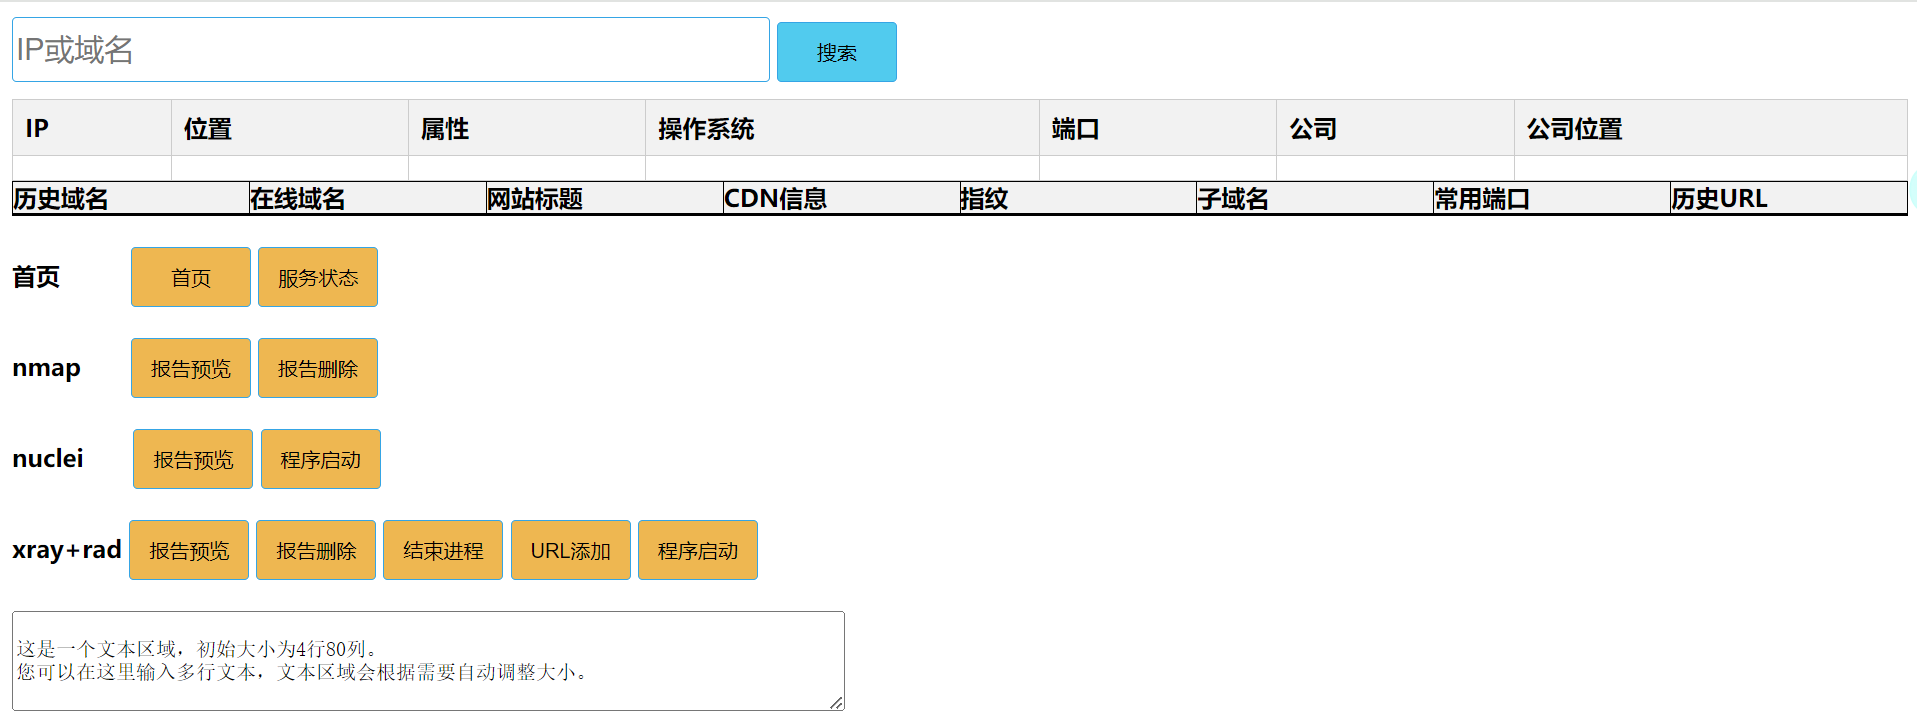
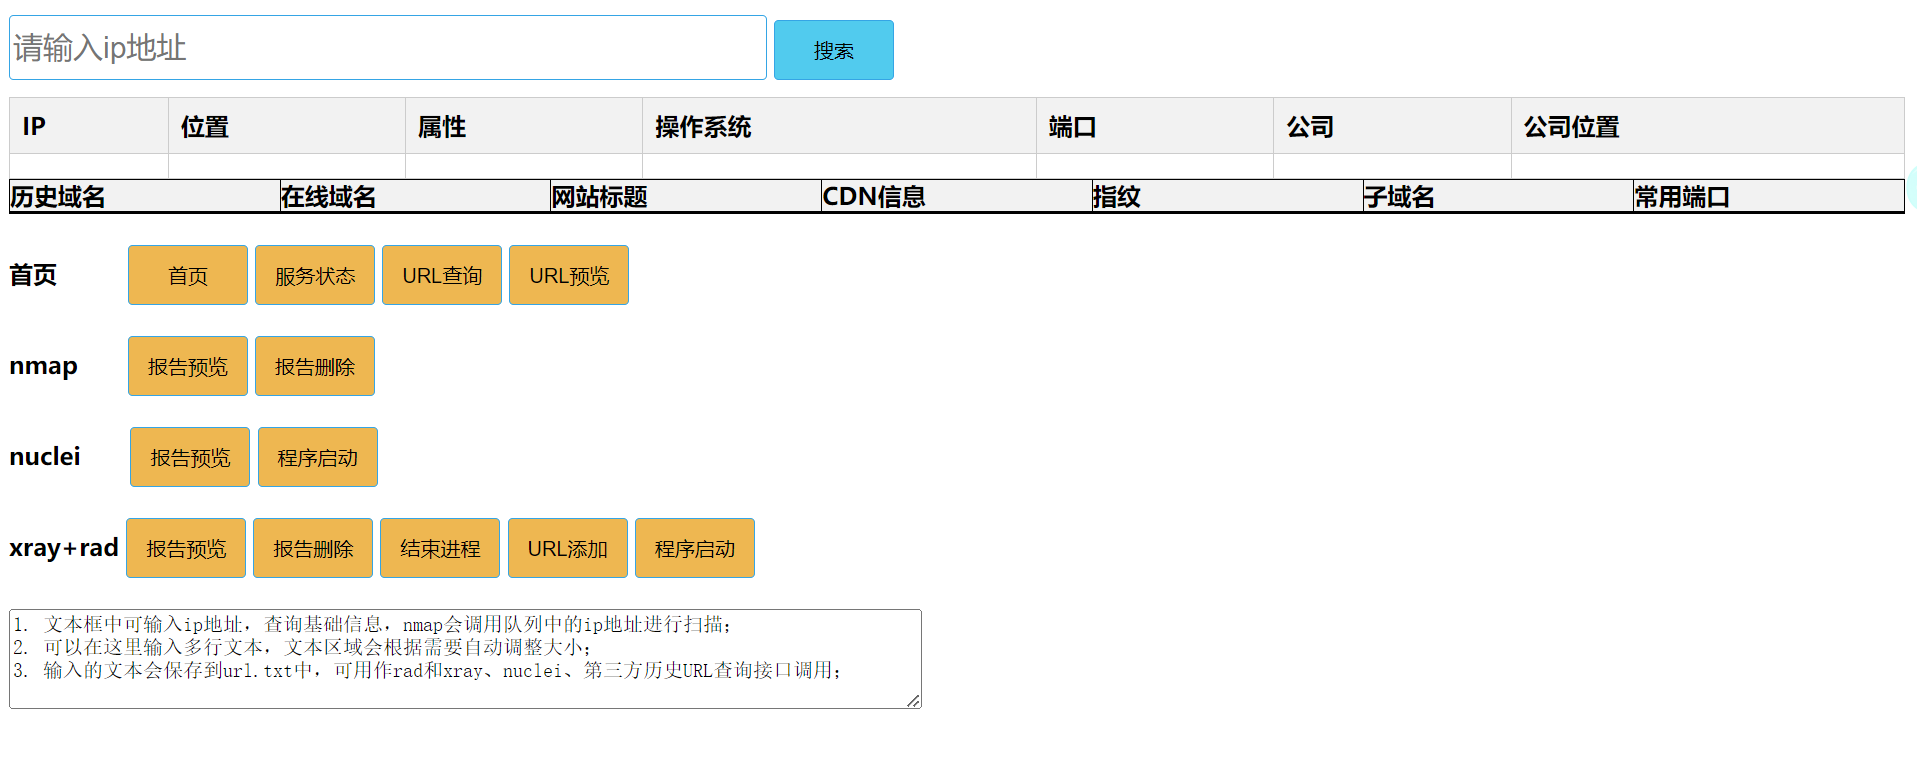
历史url查询、预览、页面优化

Changed region(s): [[0.0, 0.0, 1.0, 0.9433], [0.0, 0.3347, 0.0308, 0.3956], [0.4309, 0.9129, 0.4617, 0.9433]]

diff --git a/templates/index.html b/templates/index.html
@@ -53,7 +53,6 @@
 		<div class="inner-div"><strong>子域名</strong></div>
 		<div class="inner-div"><strong>常用端口</strong></div>
 	
-
 	</div>
 
 
@@ -116,7 +115,9 @@
 	<br>
 			<strong>首页</strong>&nbsp;&nbsp;&nbsp;&nbsp;&nbsp;&nbsp;&nbsp;&nbsp;&nbsp;
 			<input type="button" value="首页" onclick="fanhui()">
-			<input type="button" value="服务状态" onclick="statusnmapfunc()"><br><br>
+			<input type="button" value="服务状态" onclick="statusnmapfunc()">
+			<input type="button" value="URL查询" onclick="historyurlfunc()">
+			<input type="button" value="URL预览" onclick="historyurlpreviewfunc()"><br><br>
 			<strong>nmap</strong>&nbsp;&nbsp;&nbsp;&nbsp;&nbsp;&nbsp;
 			<input type="button" value="报告预览" onclick="nmapjumpfunc()">
 			<input type="button" value="报告删除" onclick="deletenmapfunc()"><br><br>
@@ -129,10 +130,9 @@
 			<input type="button" value="结束进程" onclick="killxrayandradfunc()">
 			<input type="button" value="URL添加" onclick="sendtextareadata()">
 			<input type="button" value="程序启动" onclick="startradandxray()"><br><br>
-			<textarea rows="4" cols="80"  id="myTextarea" >  
-这是一个文本区域，初始大小为4行80列。  
-您可以在这里输入多行文本，文本区域会根据需要自动调整大小。  
-			</textarea>
+			<textarea rows="4" cols="88"  id="myTextarea" >1. 文本框中可输入ip地址，查询基础信息，nmap会调用队列中的ip地址进行扫描；
+2. 可以在这里输入多行文本，文本区域会根据需要自动调整大小；
+3. 输入的文本会保存到url.txt中，可用作rad和xray、nuclei、第三方历史URL查询接口调用；</textarea>
 			
 </body>
 

diff --git a/static/js/common.js b/static/js/common.js
@@ -161,3 +161,31 @@ function startnucleifunc() {
         }
     })
 }
+
+
+//ajax异步查看历史url
+function historyurlfunc() {
+    $.ajax({
+        url: '/historyshow/',
+        method: 'GET',
+        success: function (res) {
+            console.log(res)
+            console.log('正在查询历史URL,稍后点击URL获取')
+        },
+        error: function () {
+            alert('出现内部错误')
+            
+        },
+        complete: function () {
+            alert('正在查询历史URL,稍后点击URL获取')
+        }
+    })
+
+}
+
+
+//历史url预览
+function historyurlpreviewfunc() {
+
+    window.open("/previewhistoryurl/");
+}

diff --git a/scan_main_web.py b/scan_main_web.py
@@ -20,7 +20,7 @@ import gaodeapi
 from flask import jsonify
 from nmap_queue import add_ip
 from config import history_switch
-from history_url import historyurl
+#from history_url import historyurl
 
 
 
@@ -126,10 +126,12 @@ def ipscaninterface():
     
 
     #子域名对应的历史URL
+    '''
     try:
         history_url = historyurl(subdomain_list)
     except:
         history_url = "接口异常"
+    '''
 
     #网站标题
     site_title_list = []
@@ -138,7 +140,7 @@ def ipscaninterface():
         site_title_list.append(site_title)
     site_title_list_result = list(set(site_title_list))
     if len(site_title_list_result) == 0:
-        site_title_list_result.append("None")
+       site_title_list_result.append("")
 
 
     
@@ -173,6 +175,14 @@ def ipscaninterface():
 @app.route("/index/")
 def index():
     return render_template('index.html')
+
+
+#历史URL查询
+@app.route("/historyshow/")
+def historyshow():
+    os.popen('python3 /TIP/batch_scan_domain/scan_lib.py')
+    return render_template('index.html')
+
 
 
 #nmap接口预览
@@ -274,6 +284,18 @@ def nmapqueuestatus():
         "radstatus":radstatus
     }
     return jsonify(message_json)
+
+
+
+#历史URL预览
+@app.route("/previewhistoryurl/")
+def previewhistoryurl():
+    
+    lines = []
+    with open('/TIP/batch_scan_domain/result.txt', 'r') as f:
+        for line in f:
+            lines.append(line.strip())
+    return '<br>'.join(lines)
     
 
 
